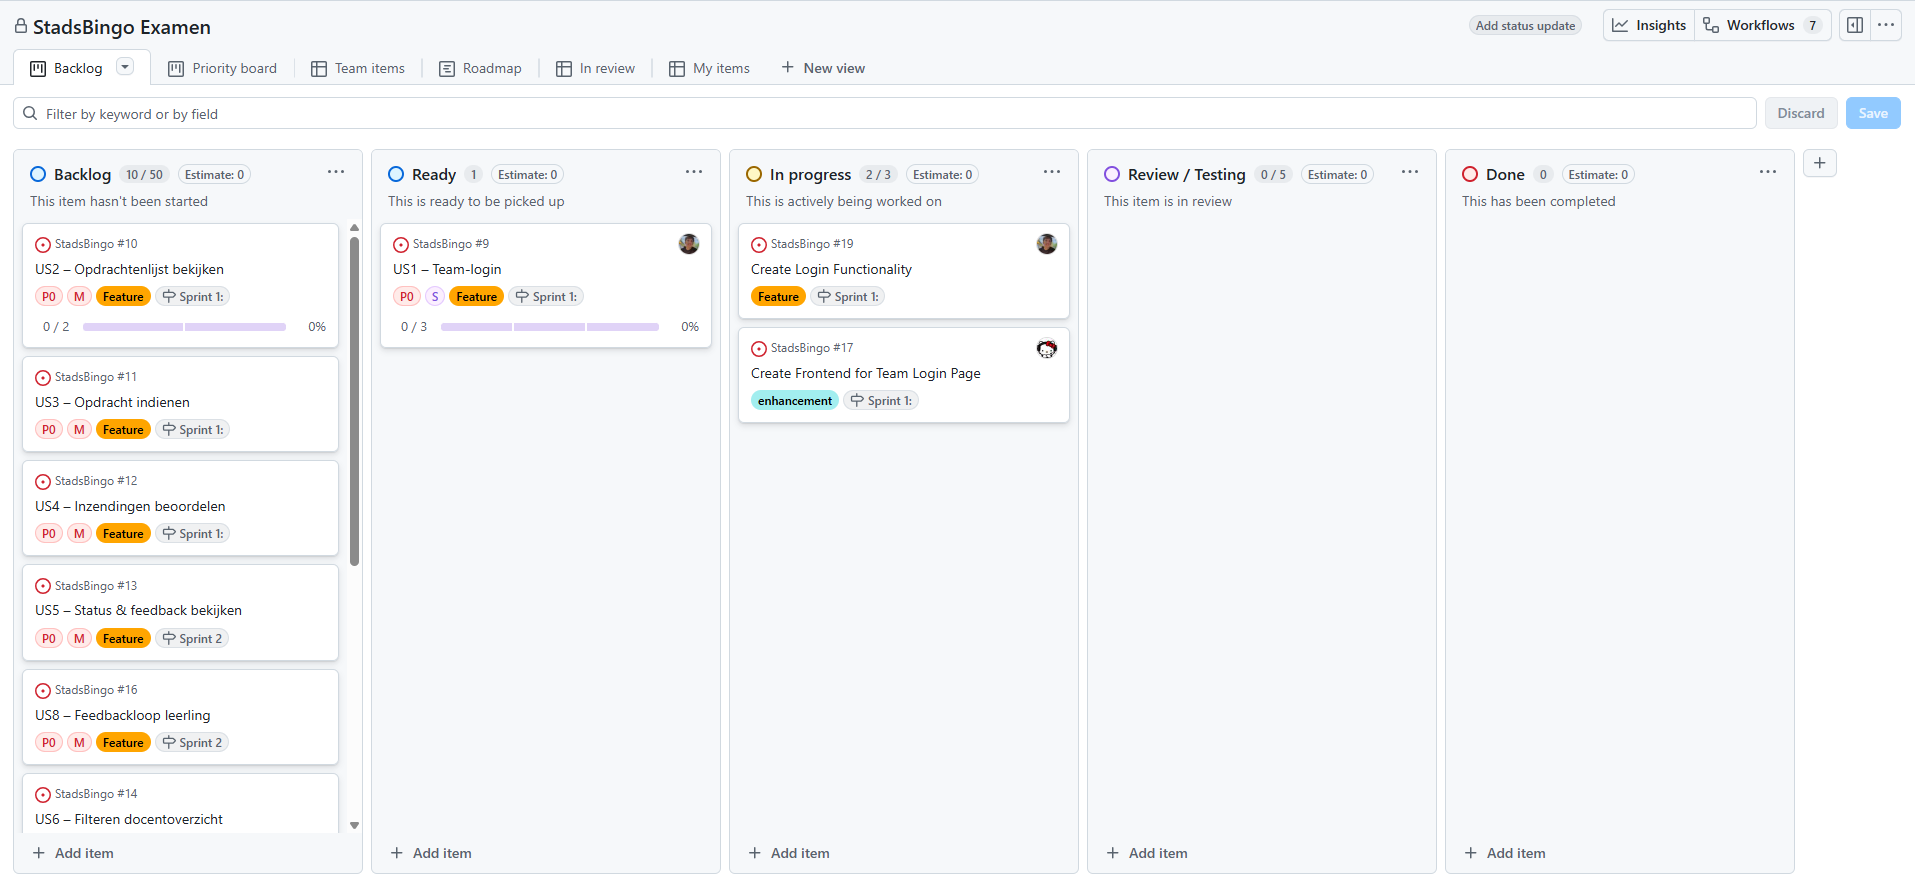
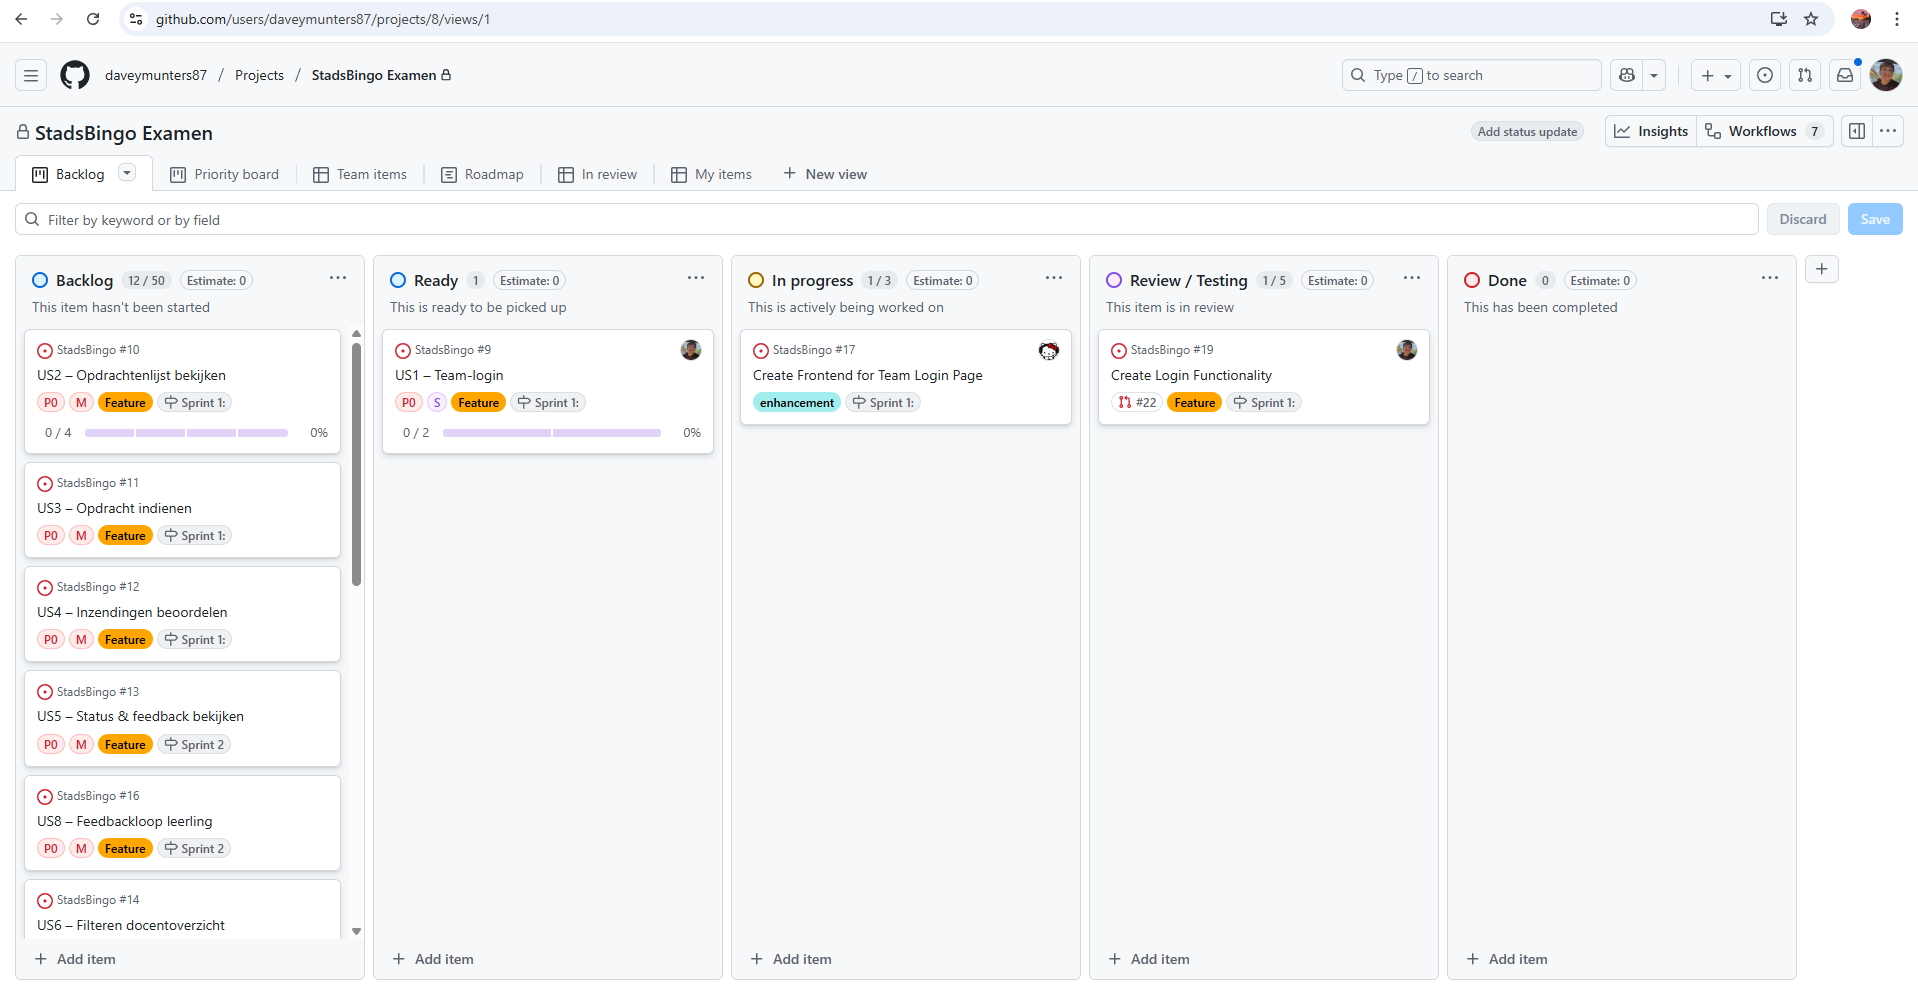
Made changes to some md files

diff --git a/examen/01_plant_werkzaamheden.md b/examen/01_plant_werkzaamheden.md
@@ -6,8 +6,8 @@ Leerlingen voeren opdrachten uit in teams in de stad en docenten beheren teams, 
 Het project volgt de **scrum-aanpak** met sprints van 1 week.
 
 **Functionele workflow (samenvatting):**
-- Docent maakt teams aan, genereert teamcodes en koppelt leerlingen aan een team.
-- Leerlingen loggen in met hun teamcode en zien de opdrachten die voor hun team beschikbaar zijn.
+- Docent maakt teams aan, genereert teamcodes en koppelt leerlingen aan een team (maximaal 5 spelers per team).
+- Leerlingen loggen in met een teamcode en zien de opdrachten die voor hun team beschikbaar zijn.
 - Elke opdracht heeft een status: `Locked`, `Available`, `Pending`, `Feedback`, `Approved`.
 - Leerlingen leveren per opdracht een tekst of foto in; docenten keuren goed of geven feedback.
 - Op basis van de beoordeling verandert de status en wordt de volgende opdracht vrijgegeven.
@@ -21,7 +21,7 @@ Het project volgt de **scrum-aanpak** met sprints van 1 week.
 | Nr | Omschrijving | Toelichting |
 |----|---------------|-------------|
 | E1 | Teams beheren en teamcodes genereren | Docent kan teams aanmaken, bekijken en per team een code genereren |
-| E2 | Leerlingen inloggen met teamcode | Leerlingen krijgen toegang tot opdrachten via een teamcode |
+| E2 | Leerlingen inloggen met teamcode | Leerlingen krijgen toegang tot opdrachten via een teamcode; API verifieert code |
 | E3 | Opdrachtenlijst per team bekijken | Leerlingen zien opdrachten die voor hun team beschikbaar zijn |
 | E4 | Opdrachten indienen | Leerlingen leveren per opdracht een tekst of foto in |
 | E5 | Opdrachtstatus en feedback bekijken | Leerlingen zien status (`Locked`, `Available`, `Pending`, `Feedback`, `Approved`) en feedback |
@@ -40,190 +40,153 @@ Het project volgt de **scrum-aanpak** met sprints van 1 week.
 ## Definition of Done (DoD)
 Een user story is **done** wanneer:
 - Functionaliteit werkt zoals beschreven (E1–E5)  
-- antwoorden zijn opgeslagen en gekoppeld  
+- Antwoorden zijn opgeslagen en gekoppeld  
 - Status en feedback worden correct weergegeven  
 - Basis tests zijn aanwezig en slagen  
-- Code is leesbaar en in git gecommit (zie `README.md` workflow)
-
----
-
-## Eisen gekoppeld aan User Stories
-
-| Eis | User Stories | Bewijsbestand |
-|------|---------------|----------------|
-| E1 | Teams beheren & teamcodes genereren | `examen/03_realiseren_software.md` |
-| E2 | Inloggen met teamcode | `examen/01_plant_werkzaamheden.md` |
-| E3 | Opdrachtenlijst en statussen bekijken | `examen/01_plant_werkzaamheden.md` |
-| E4 | Opdracht indienen & feedback verwerken | `examen/03_realiseren_software.md` |
-| E5 | Status & feedback tonen | `examen/04_test_software.md` |
-| E6 | Inzendingen beoordelen | `examen/03_realiseren_software.md` |
-| E7 | Filters docentoverzicht | `examen/03_realiseren_software.md` |
-| W1 | Visuele voortgang per team/leerling | `examen/03_realiseren_software.md` |
-| W2 | Notificaties bij feedback | `examen/03_realiseren_software.md` |
-| W3 | UX-verbeteringen | `examen/05_verbetervoorstellen.md` |
+- Code is leesbaar en in git gecommit  
 
 ---
 
 ## User Stories
 
+### **Leerling (Student)**
 
-## Leerling (Davey)
-
-### 1. Inloggen met teamcode
-
+#### 1. Inloggen met teamcode
 | **Als een...** | Leerling |
 |----------------|----------|
 | **Wil ik...**  | kunnen inloggen met een teamcode |
 | **Zodat ik...** | toegang krijg tot de opdrachten van mijn team |
 | **Prioriteit** | Must have |
-| **Acceptatiecriteria** | 1️⃣ Inlogscherm met veld voor teamcode<br>2️⃣ Geldige code geeft toegang tot dashboard<br>3️⃣ Ongeldige code geeft duidelijke foutmelding |
+| **Acceptatiecriteria** | 1️⃣ Teamcode veld aanwezig op login scherm<br>2️⃣ Geldige code geeft toegang tot dashboard<br>3️⃣ Ongeldige code geeft duidelijke foutmelding<br>4️⃣ Alleen één actieve sessie per team toegestaan<br>5️⃣ Maximaal 5 spelers per team kunnen inloggen |
 | **Scenario** | 1. Leerling opent app → 2. Voert teamcode in → 3. Ziet opdrachtenoverzicht |
-| **DoD** | Geldige/ongeldige codes worden correct afgehandeld |
+| **DoD** | API controleert code, foutmeldingen correct, actieve sessies beperkt |
 | **Verantwoordelijke** | Davey |
-| **Tijdsindicatie** | S (2 uur) |
+| **Tijdsindicatie** | M (4 uur) |
 
----
-
-### 2. Opdrachtenlijst en statussen bekijken
-
+#### 2. Opdrachtenlijst en statussen bekijken
 | **Als een...** | Leerling |
 |----------------|----------|
 | **Wil ik...**  | een lijst van opdrachten met hun status zien |
 | **Zodat ik...** | weet welke opdrachten locked, beschikbaar, in behandeling of afgerond zijn |
 | **Prioriteit** | Must have |
-| **Acceptatiecriteria** | 1️⃣ Lijst toont titel/beschrijving + huidige status<br>2️⃣ `Locked` opdrachten zijn niet klikbaar<br>3️⃣ `Available`, `Pending`, `Feedback`, `Approved` duidelijk onderscheidbaar |
-| **Scenario** | 1. Leerling logt in → 2. Ziet opdrachtenlijst met statussen → 3. Opent een beschikbare opdracht |
-| **DoD** | Lijst rendert stabiel met testdata en correcte statussen |
+| **Acceptatiecriteria** | 1️⃣ Lijst toont titel/beschrijving + status<br>2️⃣ `Locked` opdrachten zijn niet klikbaar<br>3️⃣ `Available`, `Pending`, `Feedback`, `Approved` duidelijk onderscheidbaar |
+| **Scenario** | 1. Leerling logt in → 2. Ziet opdrachtenlijst → 3. Opent beschikbare opdracht |
+| **DoD** | Lijst rendert stabiel, correcte statussen weergegeven |
 | **Verantwoordelijke** | Davey |
 | **Tijdsindicatie** | M (4 uur) |
 
----
-
-### 3. Opdracht indienen & feedback verwerken (Update)
-
+#### 3. Opdracht indienen & feedback verwerken
 | **Als een...** | Leerling |
 |----------------|----------|
 | **Wil ik...**  | een opdracht kunnen inleveren als tekst of foto en feedback kunnen verwerken |
 | **Zodat ik...** | bij goedkeuring door kan naar de volgende opdracht |
 | **Prioriteit** | Must have |
-| **Acceptatiecriteria** | 1️⃣ Validatie: minimaal één van `tekst` of `foto` aanwezig<br>2️⃣ Na indienen wordt status `Pending`<br>3️⃣ Bij `Feedback` ziet leerling feedbacktekst en kan opnieuw indienen → status terug naar `Pending`<br>4️⃣ Bij `Approved` wordt volgende opdracht `Available` |
-| **Scenario** | 1. Open opdracht → 2. Vul tekst of upload foto → 3. Verstuur → 4. Status `Pending` → 5. Docent keurt af met feedback → 6. Leerling past aan en dient opnieuw in |
-| **DoD** | Status-flow (`Available` → `Pending` → `Feedback`/`Approved`) werkt end-to-end voor tekst en/of foto |
+| **Acceptatiecriteria** | 1️⃣ Validatie: minimaal één van `tekst` of `foto` aanwezig<br>2️⃣ Na indienen wordt status `Pending`<br>3️⃣ Bij `Feedback` ziet leerling feedback en kan opnieuw indienen<br>4️⃣ Bij `Approved` wordt volgende opdracht `Available` |
+| **Scenario** | 1. Open opdracht → 2. Vul tekst/foto → 3. Verstuur → 4. Status `Pending` → 5. Docent keurt af → 6. Leerling dient opnieuw in |
+| **DoD** | Status-flow (`Available` → `Pending` → `Feedback`/`Approved`) werkt correct |
 | **Verantwoordelijke** | Davey |
 | **Tijdsindicatie** | M (2–4 uur) |
 
 ---
 
-## Docent (Jada)
+### **Docent (Teacher)**
 
-### 1. Inzendingen beoordelen
-
+#### 1. Inzendingen beoordelen
 | **Als een...** | Docent |
 |----------------|--------|
 | **Wil ik...**  | inzendingen kunnen goed- of afkeuren met feedback |
 | **Zodat ik...** | voortgang van leerlingen kan bewaken |
 | **Prioriteit** | Must have |
-| **Acceptatiecriteria** | 1️⃣ Overzicht van inzendingen<br>2️⃣ Acties: approve/reject<br>3️⃣ Feedbackveld verplicht bij reject |
-| **Scenario** | 1. Open docentoverzicht → 2. Selecteer inzending → 3. Kies status + feedback |
+| **Acceptatiecriteria** | 1️⃣ Overzicht van inzendingen<br>2️⃣ Acties: approve/reject<br>3️⃣ Feedback verplicht bij reject |
+| **Scenario** | 1. Open docentdashboard → 2. Selecteer inzending → 3. Kies status + feedback |
 | **DoD** | Status/feedback zichtbaar voor leerling |
 | **Verantwoordelijke** | Jada |
 | **Tijdsindicatie** | M (4 uur) |
 
----
-
-### 2. Filteren in docentoverzicht
-
+#### 2. Filteren in docentoverzicht
 | **Als een...** | Docent |
 |----------------|--------|
 | **Wil ik...**  | kunnen filteren op status en leerling |
 | **Zodat ik...** | sneller kan beoordelen |
 | **Prioriteit** | Should have |
 | **Acceptatiecriteria** | 1️⃣ Filter op status<br>2️⃣ Zoeken op leerlingnaam |
-| **DoD** | Filters wijzigen lijst zonder errors |
+| **DoD** | Filters wijzigen lijst correct |
 | **Verantwoordelijke** | Jada |
 | **Tijdsindicatie** | S (2 uur) |
 
----
-
-### 3. Visuele voortgang per team/leerling
-
+#### 3. Visuele voortgang per team/leerling
 | **Als een...** | Docent |
 |----------------|--------|
 | **Wil ik...**  | visuele voortgang van teams en leerlingen kunnen zien |
 | **Zodat ik...** | snel overzicht heb wie opdrachten voltooid heeft of vastloopt |
 | **Prioriteit** | Should have |
-| **Acceptatiecriteria** | 1️⃣ Voor ieder team een voortgangsbalk<br>2️⃣ Voor iedere leerling een individuele voortgangsbalk<br>3️⃣ Kleurcodering van status (`Pending`, `Feedback`, `Approved`) |
+| **Acceptatiecriteria** | 1️⃣ Voor ieder team een voortgangsbalk<br>2️⃣ Voor iedere leerling een individuele voortgangsbalk<br>3️⃣ Kleurcodering status (`Pending`, `Feedback`, `Approved`) |
 | **DoD** | Vooruitgang correct weergegeven voor alle teams/leerlingen |
 | **Verantwoordelijke** | Jada |
 | **Tijdsindicatie** | M (4 uur) |
 
+---
+
 ## Sprint Planning
 
-## 🔹 Sprint 1 (Week 1–2)
-**Doel:** Basisflow leerling en docent, inclusief indienen en beoordelen, zonder extra UX/features.
+### 🔹 Sprint 1 (Week 1–2)
+**Doel:** Basisflow leerling en docent, inclusief login, opdrachtenoverzicht en beoordelen.
 
 | To Do | In Progress | Done |
 |-------|------------|------|
-| Inloggen met teamcode (Davey, 2u) | Opdrachtenlijst bekijken (Davey, 4u) | |
+| Team login API & dashboard backend (Davey, 4u) | Opdrachtenlijst bekijken (Davey, 4u) | |
 | Inzendingen beoordelen (Jada, 4u) | | |
 
 **Sprint 1 DoD:**  
-- Leerling kan inloggen en opdrachtenlijst zien  
-- Leerling kan een opdracht indienen  
-- Docent kan inzendingen beoordelen (approve/reject + feedback)  
+- Leerling kan inloggen met teamcode  
+- Leerling ziet opdrachtenlijst  
+- Docent kan inzendingen beoordelen  
 
 ---
 
-## 🔹 Sprint 2 (Week 3–4)
-**Doel:** UX en extra features, status/feedback weergave, filters en voortgang.
+### 🔹 Sprint 2 (Week 3–4)
+**Doel:** Frontend dashboard, filters, voortgangsbalken, feedback verwerking.
 
 | To Do | In Progress | Done |
 |-------|------------|------|
-| Filteren in docentoverzicht (Jada, 2u) | Visuele voortgang per team/leerling (Jada, 4u) | |
+| Dashboard frontend (Davey, 4–6u) | Visuele voortgang per team/leerling (Jada, 4u) | |
 | Opdracht indienen & feedback verwerken (Davey, 2–4u) | Status & feedback bekijken (Davey, 2u) | |
+| Filteren docentoverzicht (Jada, 2u) | | |
 
 **Sprint 2 DoD:**  
-- Leerling kan feedback verwerken en status correct zien  
-- Docent kan filteren op status/leerling  
-- Voortgangsbalken per team/leerling zichtbaar en correct  
-- Basis UX verbeterd en stabiel  
+- Dashboard functioneel voor leerlingen en docenten  
+- Feedback en status correct weergegeven  
+- Filters werken correct  
+- Voortgangsbalken zichtbaar en stabiel  
 
 ---
 
-### Planning-overzicht (Criterium 1.3)
+## Planning-overzicht
 
-**Aannames capaciteit**
-- Team van 2 studenten (Davey, Jada), beschikbaar ±10 uur per week per persoon.
-- Sprintduur: 1 week → totale capaciteit per sprint ≈ 2 pers × 1 week × 20u = **40 uur**.
+**Capaciteit:**  
+- Team van 2 studenten, ±10 uur/week per persoon  
+- Sprintduur: 1 week → totale capaciteit per sprint ≈ 40 uur
 
-**Werkload vs. capaciteit per sprint**
-
-| Sprint | Stories (met inschatting) | Totaal uren | Past binnen 40u? |
-|--------|---------------------------|-------------|------------------|
-| Sprint 1 | Inloggen teamcode (2u), Opdrachtenlijst (4u), Inzendingen beoordelen (4u) | **10u** | Ruime slack voor onvoorziene zaken |
-| Sprint 2 | Filter docentoverzicht (2u), Visuele voortgang (4u), Opdracht indienen & feedback (2–4u, gerekend 4u), Status & feedback tonen (2u) | **12u** | Slack aanwezig |
-
-**Waarom realistisch?**
-- Alle must-haves (inloggen, opdrachtenlijst, indienen, beoordelen) staan in Sprint 1; should-haves verschuiven naar Sprint 2.
-- Uren per sprint liggen ruim onder de beschikbare 40u, zodat er ruimte is voor bugs en iteraties.
-- Stories zijn al voorzien van MoSCoW + tijdsinschatting en sluiten aan op de DoD.
-
-**Bewijs stukken planning/voortgang**
-- Zie het overzicht in de sectie hieronder onder `Voortgangsbewaking`.
+| Sprint | Stories (uren) | Totaal uren | Past binnen 40u? |
+|--------|----------------|-------------|-----------------|
+| Sprint 1 | Team login (4u), Opdrachtenlijst (4u), Inzendingen beoordelen (4u) | 12u | ✅ |
+| Sprint 2 | Dashboard frontend (4–6u), Feedback verwerking (2–4u), Filters docent (2u), Voortgangsbalken (4u) | 12–16u | ✅ |
 
 ---
 
-## Voortgangsbewaking (Criterium 1.4)
+## Voortgangsbewaking
 
-**Doel:** aantonen dat voortgang actief is bewaakt en keuzes zijn gemaakt o.b.v. prioriteit.
+**Doel:** aantonen dat voortgang actief wordt bewaakt en keuzes gebaseerd op prioriteit.
 
-# Bewijsstukken – Examenopdracht 1
+| Periode         | Type                  | Bestand | Toelichting |
+|----------------|----------------------|---------|------------|
+| 08-12 t/m 15-12 | Sprint 1 start       | ![Sprint 1 Start](bewijsmateriaal/01/sprint1/sprint1_start.png) | Begin Sprint 1, taken in **To Do** |
+| 08-12 t/m 15-12 | Sprint 1 retrospectief | [Sprint 1 Retro](bewijsmateriaal/01/sprint1/sprint1_retro.md) | Reflectie Sprint 1, planning Sprint 2 |
+| 08-12 t/m 15-12 | Sprint 1 end         | ![Sprint 1 End](bewijsmateriaal/01/sprint1/sprint1_end.png) | Einde Sprint 1, status van taken |
+| 08-12 t/m 15-12 | Sprint 1 commits     | [Commits Sprint 1](bewijsmateriaal/01/sprint1/commit_list_sprint1.md) | Overzicht commits tijdens Sprint 1 |
+| 15-12 t/m 22-12 | Sprint 2 start       | ![Sprint 2 Start](bewijsmateriaal/01/sprint2/sprint2_start.png) | Begin Sprint 2, taken in **To Do** |
+| 15-12 t/m 22-12 | Sprint 2 retrospectief | [Sprint 2 Retro](bewijsmateriaal/01/sprint2/sprint2_retro.md) | Reflectie Sprint 2, planning Sprint 3 |
+| 15-12 t/m 22-12 | Sprint 2 end         | ![Sprint 2 End](bewijsmateriaal/01/sprint2/sprint2_end.png) | Einde Sprint 2, status van taken |
+| 15-12 t/m 22-12 | Sprint 2 commits     | [Commits Sprint 2](bewijsmateriaal/01/sprint2/commit_list_sprint2.md) | Overzicht commits tijdens Sprint 2 |
 
-| Datum      | Type                                  | Bestand                                               | Toelichting                                                                                       |
-|-----------|---------------------------------------|------------------------------------------------------|--------------------------------------------------------------------------------------------------|
-| 2025-11-04 | Scrum board snapshot (begin Sprint 1) | `examen/bewijsmateriaal/01/sprint1_start.png`       | Screenshot van het Kanban board aan het begin van Sprint 1. Toont alle basistaken in **To Do**, inclusief prioriteit, feature label en geschatte grootte. |
-| 2025-11-11 | Sprint 1 retrospectief                 | `examen/bewijsmateriaal/01/sprint1_retro.md`       | Markdown met terugblik op Sprint 1. Beschrijft doorlooptijd van taken, wat goed ging, wat verbeterd kan worden, en planning voor Sprint 2. |
-| 2025-11-18 | Scrum board snapshot (eind Sprint 1)  | `examen/bewijsmateriaal/01/sprint1_end.png`        | Screenshot van het Kanban board aan het einde van Sprint 1. Toont afgeronde taken in **Done**, taken die naar Sprint 2 verschoven zijn en voortgang van de basisflow. |
-| 2025-11-19 | Scrum board snapshot (begin Sprint 2) | `examen/bewijsmateriaal/01/sprint2_start.png`      | Screenshot van het Kanban board aan het begin van Sprint 2. Toont nieuwe taken die gepland zijn voor Sprint 2 en eventuele carry-over taken van Sprint 1. |
-| 2025-11-25 | Commit overzicht                        | `examen/bewijsmateriaal/01/commit_list_sprint1.md` | Lijst van commits gemaakt tijdens Sprint 1. Bevat korte omschrijving per commit en laat zien welke taken van de backlog zijn opgepakt. |
-
+---

diff --git a/examen/bewijsmateriaal/01/sprint1/commit_list_sprint1.md b/examen/bewijsmateriaal/01/sprint1/commit_list_sprint1.md
@@ -1,6 +1,6 @@
 # Sprint 1 – Commit overzicht
 
-**Periode:** 08-12-2025 t/m 22-12-2025  
+**Periode:** 08-12-2025 t/m 15-12-2025  
 **Project:** StadsBingo  
 
 ---